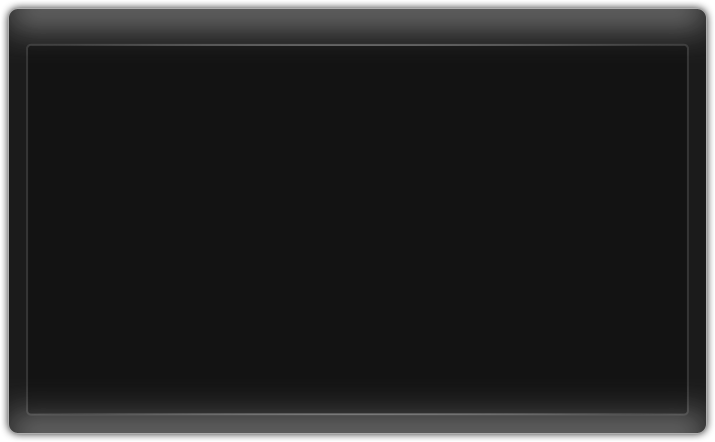
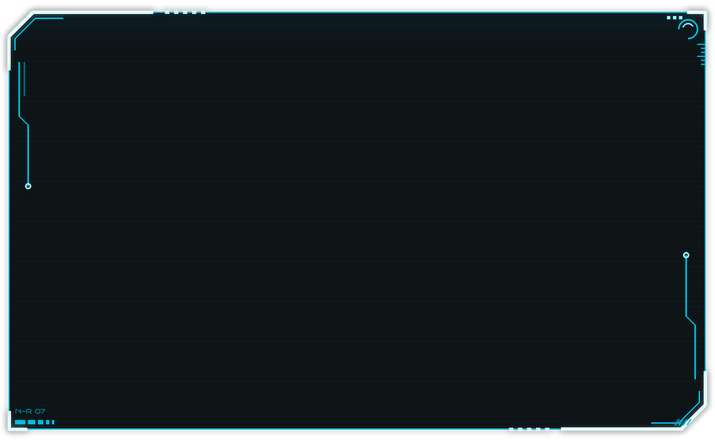
1.0.4: Tron B+ frames for menus, dialogs and panels; Bruno Ace SC dialog titles

Changed region(s): [[0.0, 0.0, 1.0, 1.0]]

diff --git a/_tools/make_tron_frames.py b/_tools/make_tron_frames.py
@@ -1,0 +1,128 @@
+#!/usr/bin/env python3
+"""Génère les cadres Tron de Next-Rapier (dialogues B+ et panneau).
+
+Usage : python3 _tools/make_tron_frames.py <racine_skin>
+"""
+from PIL import Image, ImageDraw, ImageFilter
+CY=(0,216,255); CYL=(150,246,255); WH=(225,252,255)
+S=3  # supersampling
+def P(v): return int(round(v*S))
+def finish(base, edge, glow):
+    W,H=base.size
+    if glow: base.alpha_composite(edge.filter(ImageFilter.GaussianBlur(glow*S)))
+    base.alpha_composite(edge)
+    return base.resize((W//S,H//S),Image.LANCZOS)
+def dialog(W,H,ins,variant):
+    W2,H2=W*S,H*S; x0,y0,x1,y1=P(ins[0]),P(ins[1]),P(W-1-ins[2]),P(H-1-ins[3]); c=P(26)
+    base=Image.new('RGBA',(W2,H2),(0,0,0,0)); d=ImageDraw.Draw(base)
+    poly=[(x0+c,y0),(x1,y0),(x1,y1-c),(x1-c,y1),(x0,y1),(x0,y0+c)]
+    d.polygon(poly,fill=(3,8,11,242))
+    sl=Image.new('RGBA',(W2,H2),(0,0,0,0)); sd=ImageDraw.Draw(sl)
+    for y in range(y0+P(4),y1,P(5)): sd.line([(x0,y),(x1,y)],fill=CY+(8,),width=S)
+    m=Image.new('L',(W2,H2),0); ImageDraw.Draw(m).polygon(poly,fill=255); base.paste(Image.alpha_composite(base,sl),(0,0),m)
+    e=Image.new('RGBA',(W2,H2),(0,0,0,0)); ed=ImageDraw.Draw(e)
+    ed.line(poly+[poly[0]],fill=CY+(200,),width=P(1.2),joint='curve')     # outer thin line
+    if variant>=1:
+        # double line on the top-left: thick bright segment along the cut, then along the top
+        t=P(3.2)
+        ed.line([(x0,y0+c+P(40)),(x0,y0+c),(x0+c,y0),(x0+c+P(150),y0)],fill=WH+(255,),width=t,joint='curve')
+        # inner circuit trace: from left edge inset, 45° step, ending with a node
+        i=P(9)
+        # piste verticale le long du bord gauche (ne croise pas le titre) : 45° vers l'intérieur puis nœud
+        tr=[(x0+i,y0+c+P(4)),(x0+i,y0+c+P(70)),(x0+i+P(10),y0+c+P(80)),(x0+i+P(10),y0+c+P(150))]
+        ed.line(tr,fill=CY+(200,),width=P(1.4),joint='curve')
+        r=P(3.2); nx,ny=tr[-1]; ed.ellipse([nx-r,ny-r,nx+r,ny+r],outline=CYL+(255,),width=P(1.4))
+        # bottom-right: mirrored thick segment + trace + node
+        ed.line([(x1,y1-c-P(40)),(x1,y1-c),(x1-c,y1),(x1-c-P(150),y1)],fill=WH+(255,),width=t,joint='curve')
+        tr2=[(x1-i,y1-c-P(4)),(x1-i,y1-c-P(70)),(x1-i-P(10),y1-c-P(80)),(x1-i-P(10),y1-c-P(150))]
+        ed.line(tr2,fill=CY+(200,),width=P(1.4),joint='curve'); nx,ny=tr2[-1]; ed.ellipse([nx-r,ny-r,nx+r,ny+r],outline=CYL+(255,),width=P(1.4))
+        # corner brackets top-right & bottom-left
+        b=P(22); bt=P(3)
+        ed.line([(x1-b,y0-P(0)),(x1,y0),(x1,y0+b)],fill=WH+(255,),width=bt,joint='curve')
+        ed.line([(x0,y1-b),(x0,y1),(x0+b,y1)],fill=WH+(255,),width=bt,joint='curve')
+    if variant>=2:
+        # pips on right edge (in the top-right corner zone) and a segmented line on top
+        for k in range(3):
+            yy=y0+P(30)+k*P(9); ed.rectangle([x1-P(7),yy,x1-P(3),yy+P(5)],fill=CYL+(255,))
+        for k in range(6):
+            xx=x1-P(60)-k*P(10); ed.rectangle([xx,y0+P(4),xx+P(6),y0+P(6)],fill=CY+(220,))
+    return finish(base,e,3)
+def panel(W,H,variant):
+    W2,H2=W*S,H*S; x0,y0,x1,y1=P(1),P(1),P(W-2),P(H-2); c=P(6.5)
+    base=Image.new('RGBA',(W2,H2),(0,0,0,0)); d=ImageDraw.Draw(base)
+    poly=[(x0+c,y0),(x1,y0),(x1,y1-c),(x1-c,y1),(x0,y1),(x0,y0+c)]
+    d.polygon(poly,fill=(3,8,11,205))
+    e=Image.new('RGBA',(W2,H2),(0,0,0,0)); ed=ImageDraw.Draw(e)
+    ed.line(poly+[poly[0]],fill=CY+(175,),width=P(1),joint='curve')
+    if variant>=1:
+        bt=P(2.2)
+        ed.line([(x0,y0+c+P(1)),(x0,y0+c),(x0+c,y0),(x0+c+P(1),y0)],fill=WH+(255,),width=bt)   # bright cut TL
+        ed.line([(x1,y1-c-P(1)),(x1,y1-c),(x1-c,y1),(x1-c-P(1),y1)],fill=WH+(255,),width=bt)   # bright cut BR
+        ed.line([(x1-P(6),y0),(x1,y0),(x1,y0+P(6))],fill=CYL+(255,),width=bt)                   # bracket TR
+        ed.line([(x0,y1-P(6)),(x0,y1),(x0+P(6),y1)],fill=CYL+(255,),width=bt)                   # bracket BL
+    return finish(base,e,1.2 if variant else 0)
+
+from PIL import ImageFont
+import os, sys
+MICRO=os.path.join(sys.argv[1] if len(sys.argv)>1 else '.', 'fonts', 'BrunoAceSC-Regular.ttf')
+def dialog_v3(W,H,ins,corner):
+    """corner = (l,t,r,b) zones non étirées du 9-slice : les motifs fins y restent."""
+    W2,H2=W*S,H*S; x0,y0,x1,y1=P(ins[0]),P(ins[1]),P(W-1-ins[2]),P(H-1-ins[3]); c=P(24)
+    L,T,R,B=[P(v) for v in corner]
+    base=Image.new('RGBA',(W2,H2),(0,0,0,0)); d=ImageDraw.Draw(base)
+    poly=[(x0+c,y0),(x1,y0),(x1,y1-c),(x1-c,y1),(x0,y1),(x0,y0+c)]
+    d.polygon(poly,fill=(3,8,11,244))
+    # scanlines + léger dégradé de lumière en haut
+    sl=Image.new('RGBA',(W2,H2),(0,0,0,0)); sd=ImageDraw.Draw(sl)
+    for y in range(y0+P(4),y1,P(5)): sd.line([(x0,y),(x1,y)],fill=CY+(8,),width=S)
+    for k in range(P(40)): sd.line([(x0,y0+k),(x1,y0+k)],fill=CY+(int(16*(1-k/P(40))),),width=1)
+    m=Image.new('L',(W2,H2),0); ImageDraw.Draw(m).polygon(poly,fill=255); base.paste(Image.alpha_composite(base,sl),(0,0),m)
+    e=Image.new('RGBA',(W2,H2),(0,0,0,0)); ed=ImageDraw.Draw(e)
+    thin=P(1.2); thick=P(3.2); mid=P(1.6)
+    ed.line(poly+[poly[0]],fill=CY+(190,),width=thin,joint='curve')
+    # --- haut-gauche : double chanfrein (épais blanc + fin cyan décalé), trait plein puis pointillé sur le haut
+    ed.line([(x0,y0+c+P(34)),(x0,y0+c),(x0+c,y0),(x0+c+P(120),y0)],fill=WH+(255,),width=thick,joint='curve')
+    o=P(6); ed.line([(x0+o,y0+c+P(14)),(x0+o,y0+c+o*0.4),(x0+c+o*0.4,y0+o),(x0+c+P(30),y0+o)],fill=CY+(230,),width=thin,joint='curve')
+    for k in range(5):
+        xx=x0+c+P(132)+k*P(9); ed.line([(xx,y0),(xx+P(4),y0)],fill=WH+(230,),width=thick)
+    # --- bord gauche : deux pistes parallèles à 45° + nœuds
+    i=P(10)
+    ed.line([(x0+i,y0+c+P(26)),(x0+i,y0+c+P(80)),(x0+i+P(9),y0+c+P(89)),(x0+i+P(9),y0+c+P(150))],fill=CY+(210,),width=mid,joint='curve')
+    ed.line([(x0+i+P(5),y0+c+P(26)),(x0+i+P(5),y0+c+P(60))],fill=CY+(120,),width=thin)
+    r=P(3); nx,ny=x0+i+P(9),y0+c+P(150); ed.ellipse([nx-r,ny-r,nx+r,ny+r],outline=CYL+(255,),width=mid)
+    # --- haut-droit (zone d'angle) : équerre, arc de disque, règle graduée, pastilles, micro-texte
+    b=P(18); ed.line([(x1-b,y0),(x1,y0),(x1,y0+b)],fill=WH+(255,),width=thick,joint='curve')
+    cx,cy=x1-P(17),y0+P(17); rr=P(10)
+    ed.arc([cx-rr,cy-rr,cx+rr,cy+rr],start=180,end=450,fill=CY+(220,),width=mid)
+    ed.arc([cx-rr+P(4),cy-rr+P(4),cx+rr-P(4),cy+rr-P(4)],start=200,end=330,fill=CYL+(255,),width=thin)
+    for k in range(6):  # règle graduée descendant le long du bord droit, dans la zone d'angle
+        yy=y0+P(32)+k*P(4); ed.line([(x1-P(4 if k%3 else 8),yy),(x1,yy)],fill=CY+(200,),width=thin)
+    for k in range(3):
+        xx=x1-P(38)+k*P(6); ed.rectangle([xx,y0+P(4),xx+P(3),y0+P(7)],fill=CYL+(255,))
+    # --- bas-gauche : équerre + barres de données segmentées (zone d'angle)
+    ed.line([(x0,y1-b),(x0,y1),(x0+b,y1)],fill=WH+(255,),width=thick,joint='curve')
+    xx=x0+P(6)
+    for wdt in (10,7,5,3,2):
+        ed.rectangle([xx,y1-P(9),xx+P(wdt),y1-P(5)],fill=CY+(220,)); xx+=P(wdt+3)
+    # micro-texte dans l'angle bas-gauche, au-dessus des barres
+    f=ImageFont.truetype(MICRO,P(6.5)); ed.text((x0+P(6),y1-P(22)),'N-R 07',font=f,fill=CY+(170,))
+    # --- bas-droit : double chanfrein + piste qui remonte + hachures
+    ed.line([(x1,y1-c-P(34)),(x1,y1-c),(x1-c,y1),(x1-c-P(120),y1)],fill=WH+(255,),width=thick,joint='curve')
+    ed.line([(x1-o,y1-c-P(14)),(x1-o,y1-c-o*0.4),(x1-c-o*0.4,y1-o),(x1-c-P(30),y1-o)],fill=CY+(230,),width=thin,joint='curve')
+    for k in range(5):
+        xx=x1-c-P(136)-k*P(9); ed.line([(xx,y1),(xx+P(4),y1)],fill=WH+(230,),width=thick)
+    ed.line([(x1-i,y1-c-P(26)),(x1-i,y1-c-P(80)),(x1-i-P(9),y1-c-P(89)),(x1-i-P(9),y1-c-P(150))],fill=CY+(210,),width=mid,joint='curve')
+    nx,ny=x1-i-P(9),y1-c-P(150); ed.ellipse([nx-r,ny-r,nx+r,ny+r],outline=CYL+(255,),width=mid)
+    for k in range(4):   # hachures diagonales près du chanfrein bas-droit
+        hx=x1-P(30)+k*P(4); ed.line([(hx,y1-P(4)),(hx+P(4),y1-P(10))],fill=CY+(170,),width=thin)
+    return finish(base,e,3)
+
+
+if __name__ == '__main__':
+    root = sys.argv[1]
+    specs = {'dialog-background.png': ((9, 12, 9, 12), (50, 70, 50, 75)), 'dialog-background2.png': ((9, 12, 9, 12), (50, 50, 50, 75)),
+             'dialog-background3.png': ((9, 12, 9, 12), (50, 50, 50, 50)), 'dialog-background4.png': ((9, 9, 9, 9), (50, 50, 50, 50))}
+    for f, (ins, cor) in specs.items():
+        dialog_v3(715, 442, ins, cor).save(os.path.join(root, 'media', 'panels', f), optimize=True)
+    panel(31, 31, 2).save(os.path.join(root, 'media', 'panels', 'panel.png'), optimize=True)
+    print('cadres Tron générés')
